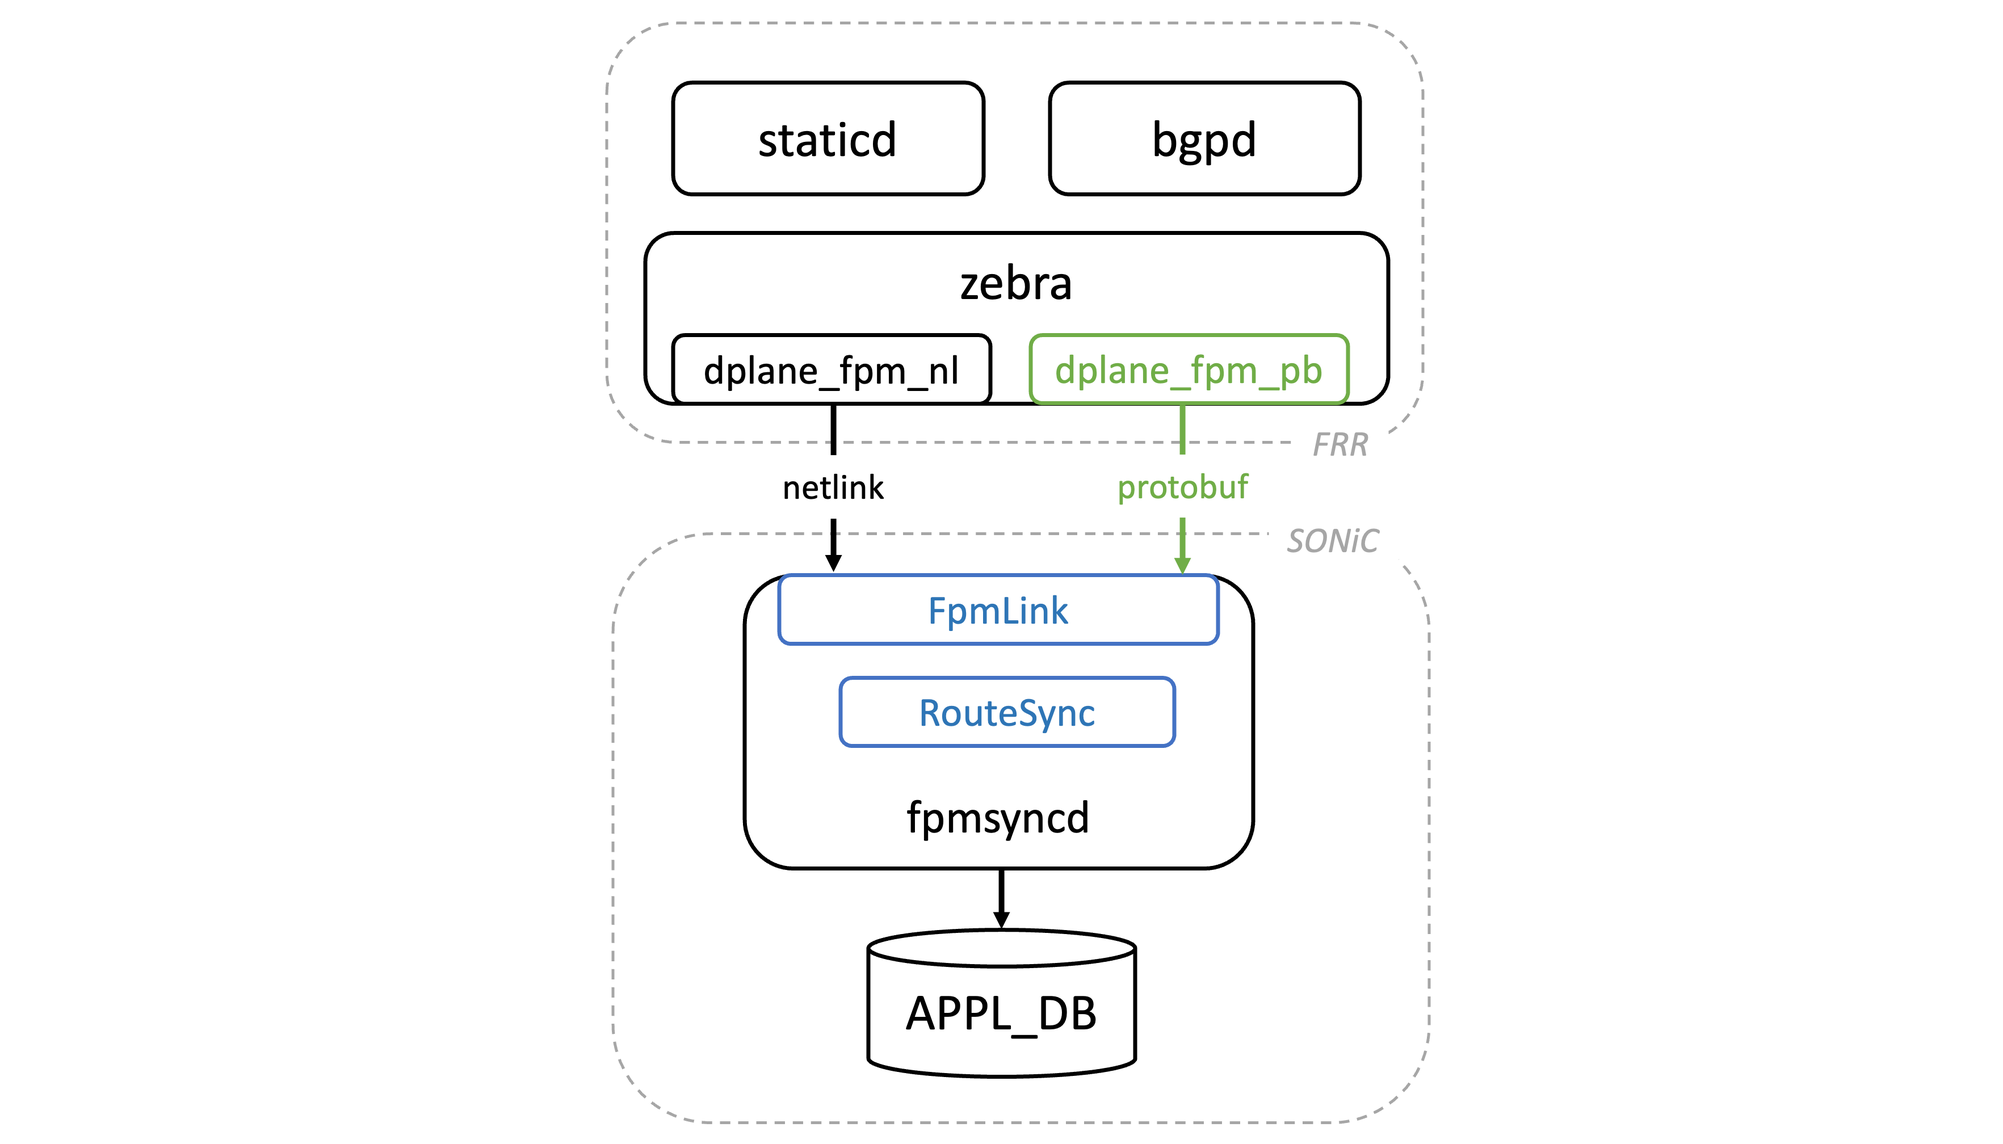
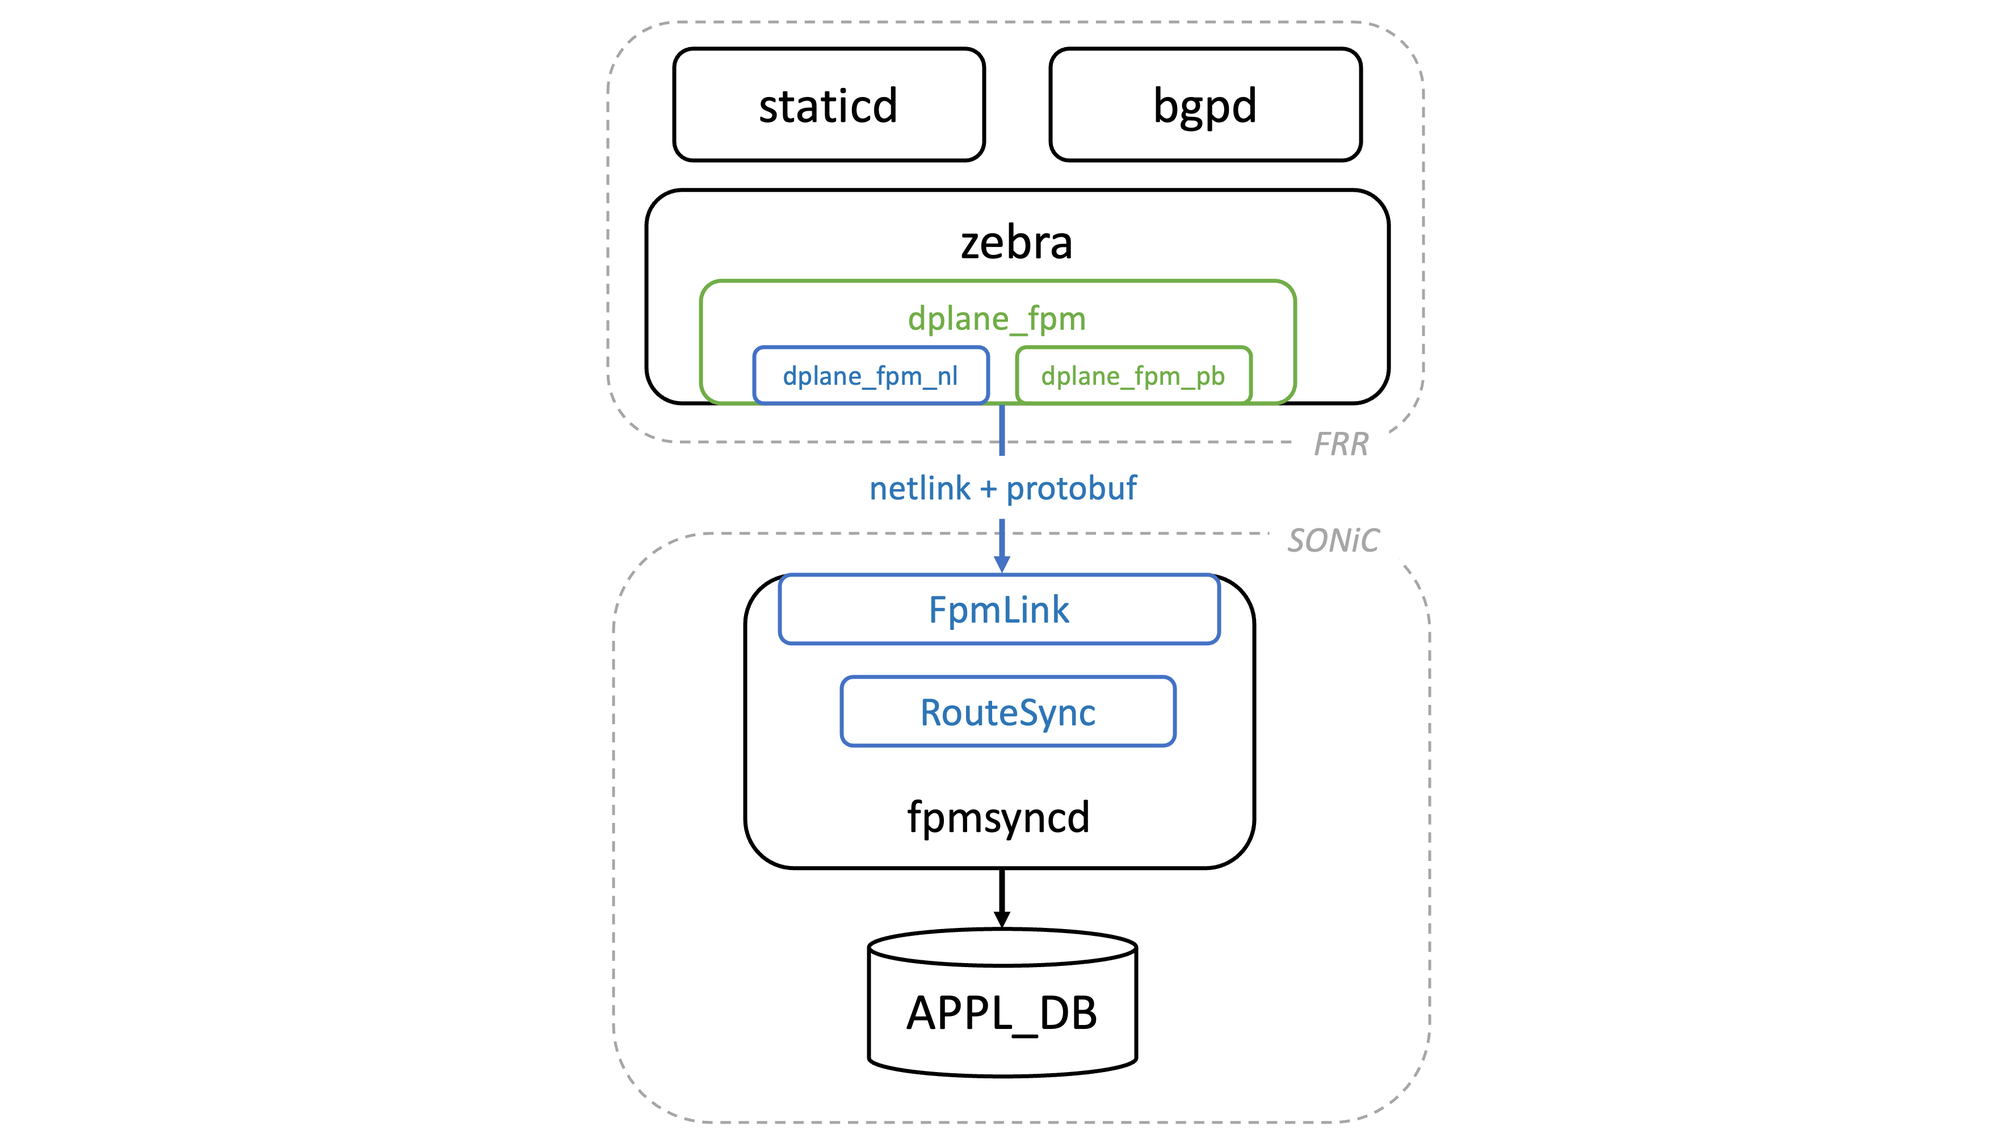
Update frr_sonic_protobuf_channel HLD to address review comments

diff --git a/doc/fpmsyncd/frr_sonic_protobuf_channel.md b/doc/fpmsyncd/frr_sonic_protobuf_channel.md
@@ -8,19 +8,22 @@
 
 - [1. Revision](#1-revision)
 - [2. Definitions/Abbreviations](#2-definitionsabbreviations)
-- [3. Overview](#3-overview)
-  - [3.1. Context](#31-context)
-- [4. Scope](#4-scope)
+- [3. Scope](#3-scope)
+- [4. Overview](#4-overview)
+	- [4.1. Context](#41-context)
+		- [4.1.1. Problem](#411-problem)
+			- [4.1.1.1. Example](#4111-example)
+		- [4.1.2. Solution](#412-solution)
 - [5. Requirements](#5-requirements)
 - [6. Architecture Design](#6-architecture-design)
 - [7. High-Level Design](#7-high-level-design)
-  - [7.1. FRR changes](#71-frr-changes)
-  - [7.2. SONiC fpmsyncd changes](#72-sonic-fpmsyncd-changes)
-  - [7.3. BGP container changes](#73-bgp-container-changes)
-    - [7.3.1. Build FRR with the FPM Protobuf support](#731-build-frr-with-the-fpm-protobuf-support)
-    - [7.3.2. Load the FPM Protobuf module on zebra startup](#732-load-the-fpm-protobuf-module-on-zebra-startup)
+	- [7.1. FRR changes](#71-frr-changes)
+	- [7.2. SONiC fpmsyncd changes](#72-sonic-fpmsyncd-changes)
+	- [7.3. BGP container changes](#73-bgp-container-changes)
+		- [7.3.1. Build FRR with the FPM Protobuf support](#731-build-frr-with-the-fpm-protobuf-support)
+		- [7.3.2. Load the FPM Protobuf module on zebra startup](#732-load-the-fpm-protobuf-module-on-zebra-startup)
 - [8. Testing Requirements/Design](#8-testing-requirementsdesign)
-  - [8.1. Unit Test cases](#81-unit-test-cases)
+	- [8.1. Unit Test cases](#81-unit-test-cases)
 
 <!-- /TOC -->
 
@@ -32,39 +35,73 @@
 
 ## 2. Definitions/Abbreviations
 
-| Definitions/Abbreviation | Description                             |
-| ------------------------ | --------------------------------------- |
-| ASIC                     | Application specific integrated circuit |
-| BGP                      | Border Gateway Protocol                 |
-| FIB                      | Forwarding Information Base             |
-| FRR                      | Free Range Routing                      |
-| FPM                      | Forwarding Plane Manager                |
-| RIB                      | Routing Information Base                |
-| SRv6                     | Segment Routing over IPv6               |
-| SID                      | Segment Identifier                      |
+| Definitions/Abbreviation | Description                               |
+| ------------------------ | ----------------------------------------- |
+| ASIC                     | Application specific integrated circuit   |
+| BGP                      | Border Gateway Protocol                   |
+| FIB                      | Forwarding Information Base               |
+| FRR                      | Free Range Routing                        |
+| FPM                      | Forwarding Plane Manager                  |
+| Protobuf                 | Protocol Buffers                          |
+| RIB                      | Routing Information Base                  |
+| SRv6                     | Segment Routing over IPv6                 |
+| SID                      | Segment Identifier                        |
+| SONiC                    | Software for Open Networking in the Cloud |
 
-## 3. Overview
+## 3. Scope  
 
-SONiC has support for routing protocols such as BGP through the integration of the FRR routing suite. FRR's routing protocols calculate their optimal routes and send them to an intermediary FRR daemon named *zebra*. Zebra, in turn, leverages the Forwarding Plane Manager (FPM) module to push these routes to SONiC. Finally, on the SONiC side, the SONiC fpmsyncd component receives the routes provided by FRR and writes them into the SONiC Redis database.
+Extending the communication channel between FRR and SONiC to support the exchange of data encoded in Protobuf format.
+
+## 4. Overview
+
+SONiC has support for routing protocols such as BGP through the integration of the FRR routing suite. Routing protocols provided by FRR calculate their optimal routes and send them to an intermediary FRR daemon named *zebra*. Zebra, in turn, leverages the Forwarding Plane Manager (FPM) module to push these routes to SONiC. Finally, on the SONiC side, the SONiC fpmsyncd component receives the routes provided by FRR and writes them into the SONiC Redis database.
 
 ![FRR-SONiC Communication Channel Overview](images/fpm-overview.png)	
 *Figure 1: FRR-SONiC Communication Channel Overview*
 
-### 3.1. Context
+### 4.1. Context
 
-Currently, FRR communicates with SONiC using the Netlink message format. However, Netlink is primarily designed for transferring data between the kernel and user-space processes. Consequently, it is tailored to the specific requirements and data model of the kernel, lacking the flexibility needed to support many use cases on the SONiC dataplane, such as SRv6 VPNs.
+#### 4.1.1. Problem
 
-As an example, let's consider a scenario where FRR needs to install an SRv6 SID into the SONiC dataplane. FRR must provide the following information, which is mandatorily required by the SONiC data model: SID value, behavior associated with the SID, behavior-specific parameters and SID format. Although the Netlink message format includes support for SID value, behavior, and behavior-specific parameters, it lacks support for the SID format.
+Currently, FRR communicates with SONiC using the Netlink message format. To program a route in SONiC, FRR first encodes the route in Netlink format, and then it sends the Netlink message to SONiC. However, since the Netlink format is primarily designed for transferring data between the kernel and user-space processes, it is tailored to the specific requirements and data model of the kernel and lacks some attributes required for supporting several features and use cases in SONiC. 
 
-The lack of flexibility of Netlink in supporting various use cases in SONiC was previously discussed in the SONiC Routing Working Group. The community has agreed on the following solution: migrating the communication channel between FRR and SONiC from Netlink to Protobuf, with FRR delivering all messages to SONiC using Protobuf. However, since the migration effort is substantial (as it requires recoding all message types supported so far from Netlink to Protobuf), it has been decided to adopt a transitional approach.
-This involves introducing a new communication channel between FRR and SONiC specifically for exchanging information encoded in Protobuf format. In the short term, this new channel operates alongside the existing Netlink-based channel, running in parallel. New features are expected to utilize the Protobuf channel, while legacy functionalities will gradually transition from Netlink to Protobuf. Eventually, all messages will be transmitted through Protobuf.
+##### 4.1.1.1. Example
+
+As an example, let's consider a scenario where FRR needs to program an SRv6 End.DT46 SID into the SONiC dataplane.
+According to the current SONiC APPL DB schema ([doc/srv6/srv6_hld.md](https://github.com/sonic-net/SONiC/blob/master/doc/srv6/srv6_hld.md#32-appdb-changes)), an SRv6 End.DT46 SID has seven attributes:
+
+* `block_len`
+* `node_len`
+* `func_len`
+* `arg_len`
+* `ipv6_address`
+* `action`
+* `vrf`
+
+In order to program an SRv6 End.DT46 SID in SONiC, FRR must provide all the above attributes. As shown in Figure 2, although it is possible to encode an SRv6 End.DT46 SID in Netlink format, the resulting Netlink message lacks some mandatory SID attributes, specifically `block_len`, `node_len`, `func_len` and `arg_len`, highlighted in red in Figure 2. Therefore, the Netlink message cannot be used to program the SID into the SONiC dataplane.
+
+![FRR-SONiC Communication Channel Overview](images/example-srv6-sid.png)	
+*Figure 2: Example: Netlink cannot be used to program an SRv6 SID in SONiC*
+
+Note that SRv6 is merely one example, but similar issues may arise when implementing other features in the future.
+
+#### 4.1.2. Solution
+
+As mentioned before, the Netlink format is very specific to the Linux kernel and not suitable to support all use cases in SONiC. This issue has already been discussed in previous SONiC Routing WG meetings. The community has come to an agreement that we should migrate the communication channel between FRR and SONiC from the Netlink format to a kernel-independent format.
+The chosen format is Protobuf.
+Compared to Netlink, Protobuf has the advantage of not being tied to the kernel. As such, we can define the schema for the Protobuf message format and have it evolve independently to support all the use cases and features we want to support in SONiC.
+
+However, since the migration effort is substantial (as it requires recoding all message types supported so far from Netlink to Protobuf), the community has come to an agreement that the migration should be gradual.
+
+In the short term, we add support for exchanging information encoded in Protobuf format between FRR and SONiC.
+
+* All new features are expected to use the Protobuf message format.
+* Old features will be gradually migrated from Netlink to Protobuf.
+
+Eventually, all messages will be transmitted in Protobuf format.
 
 For further details, please refer to the SONiC Routing Working Group meeting notes and recording:
 https://lists.sonicfoundation.dev/g/sonic-wg-routing/wiki/34083.
-
-## 4. Scope  
-
-This document describes the changes required to support the exchange of data encoded in Protobuf format between FRR and SONiC.
 
 
 ## 5. Requirements
@@ -77,18 +114,16 @@ This feature requires:
 
 ## 6. Architecture Design
 
-Currently, the communication channel between FRR and SONiC exclusively supports the transmission of information encoded in the Netlink format. As previously mentioned (refer to [Section 3.1](#31-context)), the Netlink format is tailored to meet the specifications and data model of the kernel. Consequently, it exhibits limitations in accommodating various use cases on the SONiC dataplane.
+The scope of this document is describing the changes required to support exchanging information between FRR and SONiC using the Protobuf message format.
 
-To overcome the limitations imposed by the Netlink format, we propose extending the communication channel between FRR and SONiC. This extension would introduce the capability to transmit information encoded in a format independent on the kernel data model, specifically the Protobuf message format.
+To support the Protobuf message format, we introduce a new FPM module in FRR, named `dplane_fpm_pb`. This module enables FRR to encode information using Protobuf as the message format and subsequently transmit the Protobuf message to SONiC.
 
-This proposal introduces a new FPM module in FRR, named `dplane_fpm_pb`. This module enables FRR to encode information using Protobuf as the message format and subsequently transmit the Protobuf message to SONiC.
-
-On the SONiC side, we have a small daemon (`fpmsyncd`) that receives information from FRR and process it. We make some modifications to SONiC's `fpmsyncd`, allowing it to receive Protobuf messages from the new `dplane_fpm_pb` module, process them, and subsequently write the necessary information (such as SRv6 routes and SIDs) into the APPL_DB.
+On the SONiC side, we have a small daemon (`fpmsyncd`) that receives information from FRR and process it. We make some modifications to SONiC's `fpmsyncd`, allowing it to receive Protobuf messages from FRR, process them, and subsequently write the necessary information (such as SRv6 routes and SIDs) into the APPL_DB.
 
 The following figure shows the changes to the SONiC Architecture:
 
 ![FRR-SONiC Protobuf Communication Channel - High-Level Architecture](images/fpm-pb-channel-architecture.png)	
-*Figure 2: FRR-SONiC Protobuf Communication Channel - High-Level Architecture*
+*Figure 3: FRR-SONiC Protobuf Communication Channel - High-Level Architecture*
 
 The new modules are colored in <span style="color:blue">blue</span>; the modified components are colored in <span style="color:green">green</span>.
 
@@ -96,10 +131,22 @@ The new modules are colored in <span style="color:blue">blue</span>; the modifie
 
 ### 7.1. FRR changes
 
-FRR has a module called `dplane_fpm_nl` which is responsible for exporting the routing information to SONiC. The routing information exported by `dplane_fpm_nl` is encoded using Netlink as the message format.
+In order to support transmitting information encoded in Protobuf format, we make some changes in FRR.
 
-In order to support transmitting information encoded in Protobuf format, we introduce a new module in FRR. The new module is called `dplane_fpm_pb` and is responsible for encoding and sending information to SONiC using Protobuf as the message format. The new FPM module (`dplane_fpm_pb`) is designed to coexist with the existing one (`dplane_fpm_nl`). The two modules can be run simultaneously.
+First, we add a new component called `dplane_fpm` (referred to as FPM) in FRR.
+FPM establishes a communication channel with SONiC (specifically, SONiC `fpmsyncd`). This channel is used to transmit both Netlink and Protobuf messages.
 
+FPM exports an `fpm_encoder_register()` API, which is used to add FPM encoders into the FPM system.
+
+* We introduce a new module: the FPM Protobuf module (`dplane_fpm_pb`). This module provides capability to encode/decode information in Protobuf format. During its initialization, it uses the `fpm_encoder_register()` API to register as an FPM encoder.
+
+* We make some changes to the existing FPM Netlink module (`dplane_fpm_nl`). This module provides capability to encode/decode information in Netlink format. During its initialization, it uses the `fpm_encoder_register()` API to register as an FPM encoder.
+
+* The FPM Protobuf module has higher priority than the FPM Netlink module.
+
+When FRR needs to transmit information, such as a route, to SONiC, it passes the data to FPM. Subsequently, FPM scans through the list of FPM encoders and selects the first encoder capable of encoding the requested data. Given that the Protobuf encoder holds a higher priority than the Netlink encoder, this means that FPM attempts to encode the information using the Protobuf encoder. If Protobuf is unable to encode the requested data, FPM falls back to the Netlink encoder. Following this, the chosen encoder encodes the information, and finally, FPM sends the resulting message to SONiC.
+
+The FPM Protobuf module is disabled by default.
 To enable the FPM Protobuf module in FRR, two steps are required:
 
 * FRR must be compiled with the support for the FPM Protobuf module.
@@ -109,40 +156,29 @@ To implement these modifications, a PR has been submitted to the FRR repository 
 
 ### 7.2. SONiC fpmsyncd changes
 
-On the SONiC side, SONiC's `fpmsyncd` is responsible for collecting the FIB state generated by FRR and dumping its content into the APPL_DB. Upon initialization, SONiC's `fpmsyncd` waits for incoming FPM connections on the FPM port (TCP port 2620). Subsequently, it enters an indefinite loop to receive FPM messages. Each FPM message is then routed to `FpmLink`, which is responsible for parsing the message and passing it to the appropriate handler (`RouteSync`). Currently, `RouteSync` is only capable of interpreting messages containing routes encoded in Netlink format.
+We make some changes in some of the SONiC components, namely `FpmLink` and `RouteSync`, which are part of the `fpmsyncd` process. The reason behind these changes is to enable `fpmsyncd` to process Protobuf messages received from FRR and write the necessary information (such as routes and SRv6 SIDs) to the SONiC APPL DB.
 
-We perform the following changes:
+When SONiC `fpmsyncd` receives an FPM message from FRR, it passes the message to `FpmLink`. Then, `FpmLink` checks the message encoding and passes the message to the `processFpmMessageNetlink()` or `processFpmMessageProtobuf()` callback depending on the encoding type. Finally, the message is delivered to `RouteSync`, which is responsible for extracting the information (such as the route) contained in the Netlink/Protobuf message, and writing the data into the SONiC APPL DB.
 
-* We extend SONiC's `fpmsyncd` to accept connections from multiple FPM clients. This is required to support receiving information from both FPM Netlink (`dplane_fpm_nl`) and FPM Protobuf (`dplane_fpm_pb`) modules at the same time.
-* We extend SONiC's `fpmsyncd` to parse messages encoded in protobuf.
-* We extend SONiC's `RouteSync` by adding an handler to parse information encoded in Protobuf format, such as SRv6 routes and SIDs.
-
-The following sequence diagram shows the operations performed when FRR delivers an FPM message to SONiC using the Netlink format:
-
-![FRR-SONiC Communication Channel - Netlink Message](images/fpm-nl-sequence-diagram.png)	
-*Figure 2: FRR-SONiC Communication Channel - Netlink Message*
-
-* zebra sends an FPM message through the `dplane_fpm_nl` module (1).
-* fpmsyncd receives the FPM message and passes the message to FpmLink. FpmLink invokes the callback `processFpmMessage()` to parse the received message (2).
-* FpmLink passes the message to the `processFpmMessageNetlink()` callback (3). This callback passes the message to RouteSync (4).
-* RouteSync invokes the handler onRouteMsg (5).
-* RouteSync extracts the attributes of the route from the Netlink message and writes the route entry to the APPL_DB (6).
-
-The following sequence diagram shows the operations performed when FRR delivers an FPM message to SONiC using the Protobuf format:
+As an example, the following sequence diagram shows the operations performed when FRR wants to program an SRv6 SID into the SONiC dataplane using the Protobuf format:
 
 ![FRR-SONiC Communication Channel - Protobuf Message](images/fpm-pb-sequence-diagram.png)	
-*Figure 2: FRR-SONiC Communication Channel - Protobuf Message*
+*Figure 4: FRR-SONiC Communication Channel - Protobuf Message*
 
-* zebra sends an FPM message through the `dplane_fpm_pb` module (1).
-* fpmsyncd receives the FPM message and passes the message to FpmLink. FpmLink invokes the callback `processFpmMessage()` to parse the received message (2).
-* FpmLink passes the message to the `processFpmMessageProtobuf()` callback (3). This callback passes the message to RouteSync (4).
-* RouteSync invokes the handler onSrv6LocalSidMsg (5).
-* RouteSync extracts the attributes of the SRv6 SID from the Netlink message and writes the SRv6 SID entry to the APPL_DB (6).
+* FRR sends the SRv6 SID to FPM (1).
+* FPM encodes the SRv6 SID using the Protobuf encoder and sends the FPM Protobuf message to SONiC (2).
+* `fpmsyncd` receives the FPM Protobuf message and delivers the message to `FpmLink` (3).
+* `FpmLink` checks the encoding type. Since the message is encoded in Protobuf, `FpmLink` passes the message to the `processFpmMessageProtobuf()` callback (4).
+* This callback parses the Protobuf message and delivers the message to `RouteSync` (5).
+* `RouteSync` checks the contents of the message. Since the message contains an SRv6 SID, it is delivered to the handler `onSrv6LocalSidMsg()` (6).
+* `RouteSync` extracts the attributes of the SRv6 SID from the Protobuf message and writes the SRv6 SID entry to the APPL_DB (7).
+* `OrchAgent` gets notified about the new SRv6 SID and programs the SID into the ASIC (8).
+* The result of the operation is reported back to FRR over the feedback channel (9) (10) (11) (12) (13) (14).
 
 ### 7.3. BGP container changes
 
-As mentioned earlier (see [Section 7.1](#71-frr-changes)), the FPM protobuf support in FRR is optional.
-This implies that the newly introduced FPM protobuf module in FRR (`dplane_fpm_pb`) is disabled by default.
+As mentioned earlier (see [Section 7.1](#71-frr-changes)), the FPM Protobuf support in FRR is optional.
+This implies that the newly introduced FPM Protobuf module in FRR (`dplane_fpm_pb`) is disabled by default.
 
 To activate the FPM Protobuf module in FRR, two steps are required:
 
@@ -154,7 +190,7 @@ We make some modifications to the BGP container settings to accomplish this, as 
 
 #### 7.3.1. Build FRR with the FPM Protobuf support
 
-*sonic-buildimage* scripts compile FRR with the build-time options specified in the *debian/rules* file.
+*sonic-buildimage* scripts compile FRR with the build-time options specified in the *debian/rules* file, located within the FRR repository.
 To enable the FPM Protobuf module in FRR, FRR needs to be compiled with the `--enable-dplane-pb` and `--enable-protobuf` options.
 
 A new patch file is introduced to compile FRR with the above options. Specifically, this patch adjusts the FRR build options specified within the FRR's *debian/rules* file as follows:
